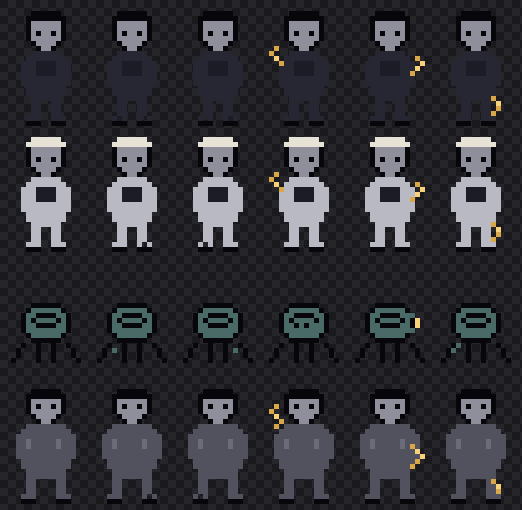
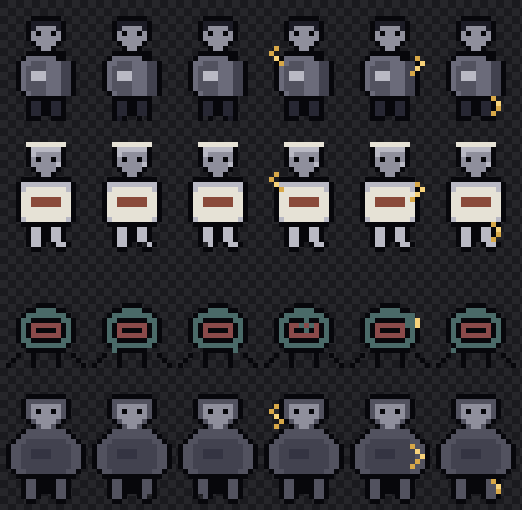
art: 角色重画 —— 从"方块加两个点"改成有轮廓有明暗的人形
用户说"可以替换正式的看看效果"。四个角色全部重画。

【原来的问题】头是个矩形、身体是个矩形、没有轮廓、没有明暗。
远看就是几个灰色块，读不出"这是个人"。

【重画的三条规则】
1. 有轮廓 —— 深色边(k)包一圈，把人从背景里"抠"出来
2. 光从上方来 —— 肩部最亮，往下逐级压暗。
   和墙顶面是同一个光源方向，整个画面才是一套光
3. 肩膀比头宽 —— 人形最基本的识别特征。头宽身窄看起来像钉子

【主角的亮度改了两次】
第一版外套用 l/s(#343442/#272733)，而 s 和【墙的砖缝是同一个颜色】——
在游戏里看就是一团糊在地板上。现在提到 f/e(#52525f/#42424f)，肩部 u(#6b6b7a)。

主题上"他是个穿深色外套的人"没错，但【可读性优先】：
动作游戏里玩家 0.2 秒找不到自己，帧数设计得再好也没用。

【护工】头身之间原来有一道缝 —— 我给肩部画了一整行深色描边，
看起来像头浮在身体上面。现在肩膀用 f 连接脖子。

【爬行物】加了内层的嘴/眼(H)，身体压到画框下半部分 ——
它贴地爬，画在框中间看起来是"站着的一坨"。

【顺手修了一个尺寸 bug】
canvas 的 style.height 在初始化时用的是 plan.rows * TILE，
而 canvas.height 已经加了 WALL_TOP_H —— 差 16px，
画布会【纵向压缩 6%】。像素画每个像素被压掉一点，
表现是"糊"而不是"变形"，很难联想到是尺寸不一致。

300 个测试全过。

diff --git a/src/ui-web/rt-view.ts b/src/ui-web/rt-view.ts
@@ -528,8 +528,11 @@ export function startRtPrototype(root: HTMLElement): () => void {
   const canvas = document.createElement('canvas');
   canvas.width = plan.cols * TILE;
   canvas.height = plan.rows * TILE + WALL_TOP_H;
+  // 【必须和 canvas.height 用同一个算式】—— 差一个 WALL_TOP_H 的话，
+  // 画布会纵向压缩 6%：像素画的每个像素高度都被压掉一点，
+  // 表现是"糊"而不是"变形"，很难联想到尺寸不一致
   canvas.style.width = `${plan.cols * TILE * plan.scale}px`;
-  canvas.style.height = `${plan.rows * TILE * plan.scale}px`;
+  canvas.style.height = `${(plan.rows * TILE + WALL_TOP_H) * plan.scale}px`;
   stage.appendChild(canvas);
 
   /** 把格子坐标夹进房间内 —— 房间尺寸是算出来的，写死坐标会摆到墙里或墙外 */
